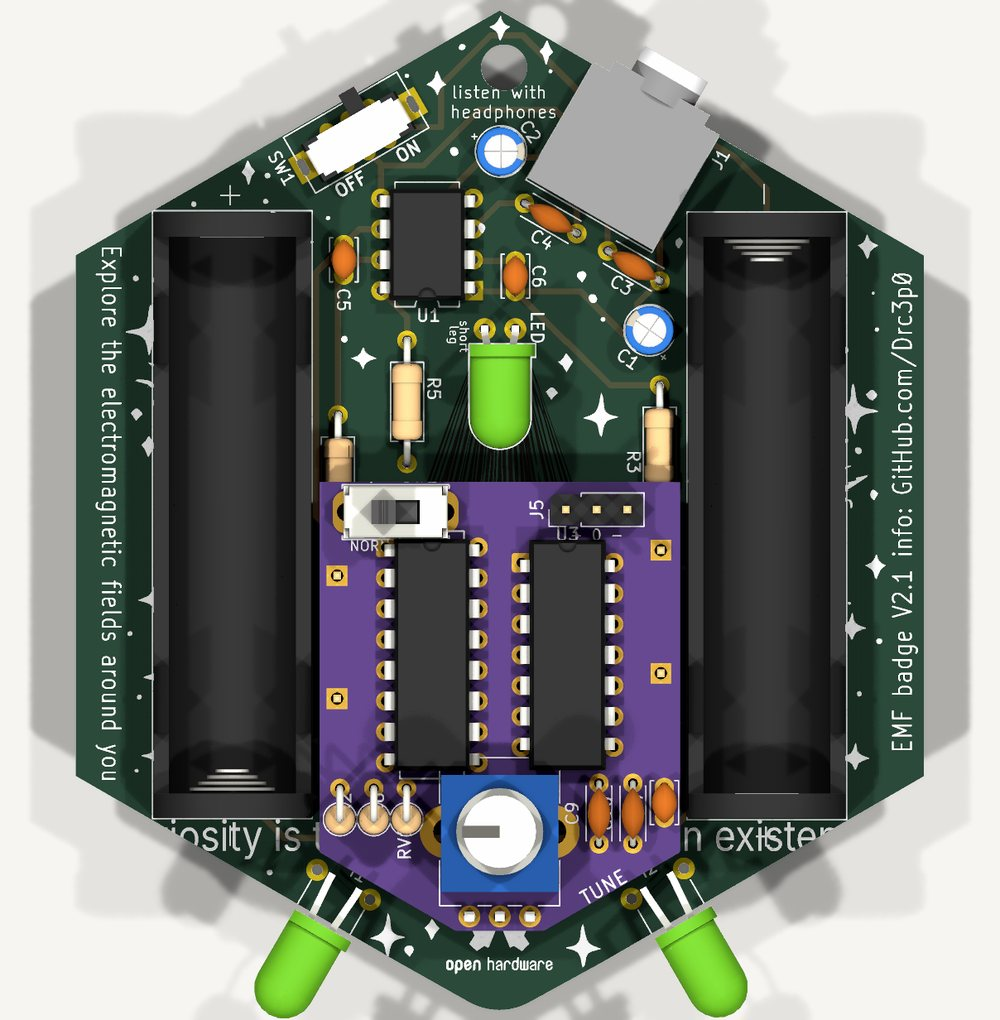
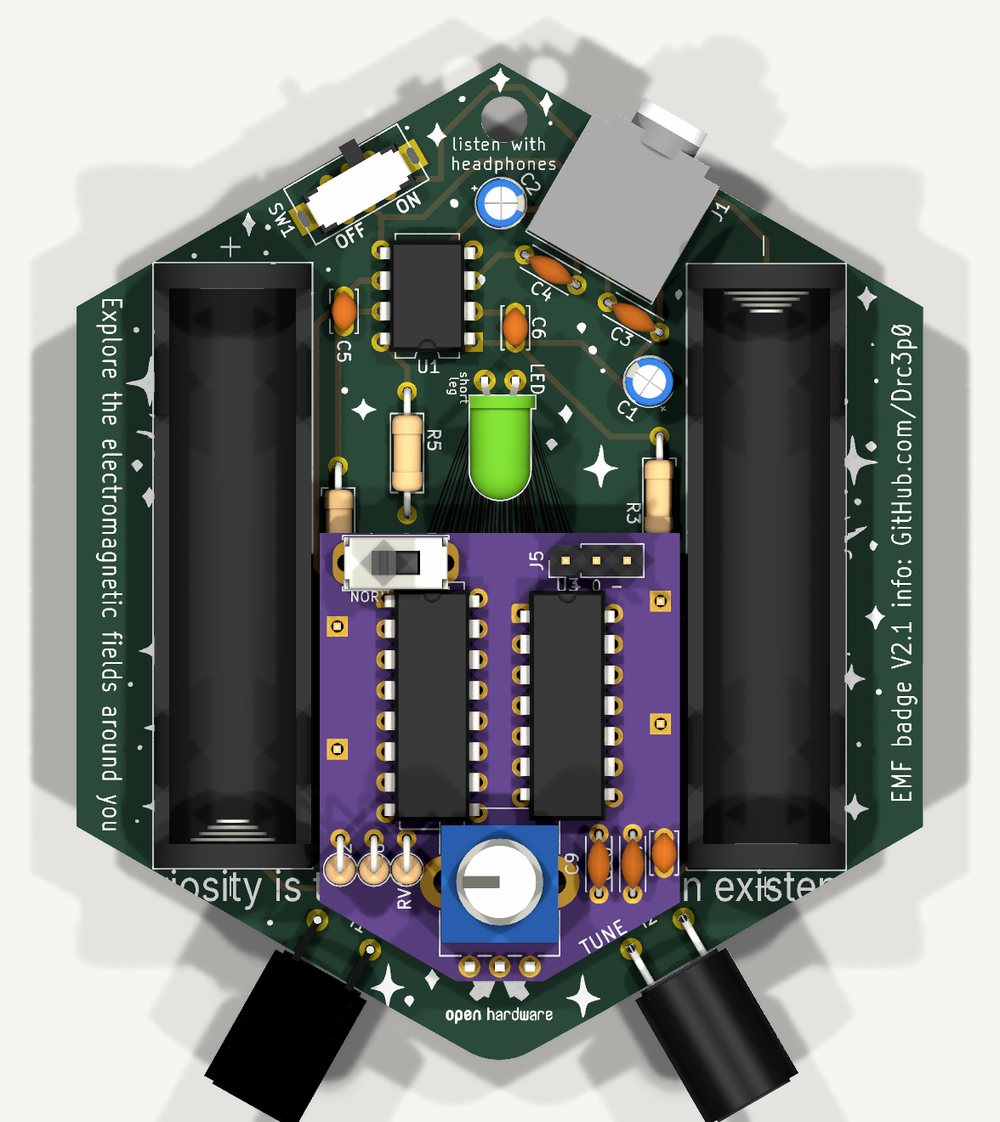
emf-badge: comb and trimmer by default, proper coil models, the 100 ohm question
- kicad.html: the generator now starts with comb mode included and a
  trimmer for the knob. The twenty checked files are unchanged.
- The add-on render draws the pickup coils as bent-over Bourns RLB1014
  inductors (size from the datasheet), not the board file's LED stand-ins.
- index.html: what happens if the 100 ohm input resistors are left out,
  with badge_noresistor.py; a bypass needs a two-pole switch.
- Correction: the output offsets quoted for the top of the dial came from
  runs with a series capacitor the build does not have. Without it the
  offset is about 0.24 V at 1 MHz, not 0.1 V. badge_chop.py now runs those
  cases as built.

Claude-Session: https://claude.ai/code/session_01RzniSLmuMjzMwxu6CQqP64

diff --git a/emf-badge/index.html b/emf-badge/index.html
@@ -362,7 +362,7 @@ footer{margin-top:3.5rem;padding-top:1rem;border-top:1px solid var(--line);font-
 <p><strong>The top of that range is ragged, and that is the bargain.</strong> An earlier draft used 10 kΩ and stopped at 255 kHz. The smaller resistor costs nothing and lets the knob reach on toward 1 MHz, where three things stop being tidy.</p>
 <ul>
   <li><strong>Tuning.</strong> Frequency goes as one over resistance, so the top is crowded. With a linear pot everything above 100 kHz sits in the last quarter of the turn and everything above 350 kHz in the last twentieth. Up there the knob is for sweeping through sources, not for parking on one. A log pot wired backwards spreads the octaves far more evenly; the dial above lets you feel both.</li>
-  <li><strong>The parts.</strong> In simulation the tone holds, 57 to 59 mV all the way to 1 MHz. What grows is an offset at the amplifier's output, about 0.1 V at 1 MHz on fresh cells and 0.17 V on tired ones. The real chip's charge injection is not modelled and will add to it. On tired cells the oscillator itself stops near 0.8 MHz.</li>
+  <li><strong>The parts.</strong> In simulation the tone holds, 57 to 59 mV all the way to 1 MHz. What grows is an offset at the amplifier's output: 60 mV at 40 kHz, 0.16 V at 600 kHz and about 0.24 V at 1 MHz, on fresh cells and tired ones alike. The real chip's charge injection is not modelled and will add to it. On tired cells the oscillator itself stops near 0.8 MHz.</li>
   <li><strong>The coil.</strong> Its ferrite core was never meant for this, and its losses up there are unknown.</li>
 </ul>
 <p>If the top end turns out to be too fiddly, a larger fixed resistor pulls it back in: 4.7 kΩ stops near 500 kHz and 10 kΩ near 250 kHz.</p>
@@ -714,7 +714,8 @@ footer{margin-top:3.5rem;padding-top:1rem;border-top:1px solid var(--line);font-
   <li><strong>No series capacitor.</strong> An earlier draft of this circuit put 10 µF between the switch and R2 to block the op-amp's offset. On the badge's rails it is not needed: without it the tone is unchanged and a 1 mV offset leaves 60 mV of DC at the output, less than the stock badge has.</li>
   <li><strong>One range.</strong> One capacitor and one pot cover 26 kHz to about 1 MHz. A range switch and a second capacitor would make the top easier to tune, for the price of the switch.</li>
   <li><strong>One ear.</strong> Tuning one ear and leaving the other normal saves the oscillator chip (build 2), and may be the nicer instrument. That is a choice to make by listening.</li>
-  <li><strong>No bypass pole.</strong> Holding the switch at pass for normal listening costs 2.5 to 6.5 dB of bass and saves a pole on the mode switch.</li>
+  <li><strong>No bypass switch.</strong> Holding the chip at pass for normal listening costs 2.5 to 6.5 dB of bass and saves a two-pole switch.</li>
+  <li><strong>No 100 Ω resistors.</strong> With the chip in the coil's path, its own resistance can do the job of R1 and R2. In simulation the tuned note, the comb and the hiss do not change: the note goes from 59 to 61 mV. Normal listening through the chip then sits within 0.5 dB of the stock badge when the chip is 120 Ω, in place of 2.5 dB down. The level now follows the chip, though: +0.7 dB at 70 Ω, −2 dB at 200 Ω and −5 dB at 400 Ω, which is where tired cells may put it. The offset at the amplifier's output also grows, most at the top of the dial: 0.34 V in place of 0.20 V at 800 kHz. It does not go with a bypass switch, which would then join the coil straight to the op-amp and lift everything below 300 Hz by 2 to 3 dB. (<a href="badge_noresistor.py">badge_noresistor.py</a>)</li>
   <li><strong>A microcontroller instead of the oscillator.</strong> A part costing about ten cents (not priced here) could be the oscillator and add an automatic sweep. It is surface-mount, needs programming on the line, and is one more thing for the coils to hear. Left out.</li>
 </ul>
 
@@ -723,8 +724,8 @@ footer{margin-top:3.5rem;padding-top:1rem;border-top:1px solid var(--line);font-
   <thead><tr><th>Question</th><th>Simulated answer, recommended build on ±1.5 V</th></tr></thead>
   <tbody>
     <tr><th scope="row">How big is the tone?</th><td>A 40 kHz field chopped at 39 kHz gives a 1 kHz tone of 59 mV at the amplifier output. Today the same field leaves 73 mV of 40 kHz there, which nobody hears.</td></tr>
-    <tr><th scope="row">Does it fall off higher up?</th><td>Not in the model: 59 mV at 200 kHz, 59 mV at 600 kHz and 57 mV at 1 MHz. An offset builds at the amplifier output instead, 24 mV at 400 kHz and 96 mV at 1 MHz.</td></tr>
-    <tr><th scope="row">And on tired cells?</th><td>59 mV at 40 kHz and at 200 kHz on ±1.0 V, with the switch modelled as 400 Ω and 150 ns, and 58 mV at 1 MHz with a 0.17 V offset. The oscillator only reaches about 0.8 MHz there.</td></tr>
+    <tr><th scope="row">Does it fall off higher up?</th><td>Not in the model: 59 mV at 200 kHz, 59 mV at 600 kHz and 57 mV at 1 MHz. An offset builds at the amplifier output instead: 60 mV at 40 kHz, 0.16 V at 600 kHz and 0.24 V at 1 MHz.</td></tr>
+    <tr><th scope="row">And on tired cells?</th><td>59 mV at 40 kHz and at 200 kHz on ±1.0 V, with the switch modelled as 400 Ω and 150 ns, and 60 mV at 1 MHz with a 0.25 V offset. The oscillator only reaches about 0.8 MHz there.</td></tr>
     <tr><th scope="row">Is it hissier than the badge?</th><td>No. The op-amp's own noise at the output is 10 dB lower while tuning than on the stock badge. The tone is also 10 dB down, so a tuned-in source is about as clean as an audible one is today.</td></tr>
     <tr><th scope="row">Does the oscillator leak into the sound?</th><td>Some of it reaches the output, always at the oscillator frequency, so above hearing. It swings ±0.15 V of the amplifier's ±1.2 V.</td></tr>
     <tr><th scope="row">What happens to ordinary sound while tuning?</th><td>It passes at half level, mixed with whatever is in the window.</td></tr>
@@ -744,10 +745,11 @@ footer{margin-top:3.5rem;padding-top:1rem;border-top:1px solid var(--line);font-
     <tr><th scope="row"><a href="badge_pots.py">badge_pots.py</a></th><td>The 74HC14 oscillator with pots from 10 kΩ to 100 kΩ.</td></tr>
     <tr><th scope="row"><a href="badge_filter.py">badge_filter.py</a></th><td>The tone filters and the reversing chopper: note, hum, ripple and hiss.</td></tr>
     <tr><th scope="row"><a href="badge_passband.py">badge_passband.py</a></th><td>What the switch and a series capacitor do to ordinary sound in normal listening.</td></tr>
+    <tr><th scope="row"><a href="badge_noresistor.py">badge_noresistor.py</a></th><td>The same circuit with the 100 Ω input resistor left out: ordinary sound, the tuned note, the comb, the offset and the hiss.</td></tr>
     <tr><th scope="row"><a href="chopper-falstad.txt">chopper-falstad.txt</a>, <a href="comb-falstad.txt">comb-falstad.txt</a></th><td>The two Falstad circuits shown above, as text to import into the simulator.</td></tr>
   </tbody>
 </table></div>
-<p class="small"><a href="emf-badge-sims.zip">All nine files in one zip.</a> Written against ngspice 42. The hiss figures move by a decibel or two from run to run, because the noise source is random.</p>
+<p class="small"><a href="emf-badge-sims.zip">All ten files in one zip.</a> Written against ngspice 42. The hiss figures move by a decibel or two from run to run, because the noise source is random.</p>
 
 <h2>What to check on the bench first</h2>
 <ol>
@@ -764,7 +766,7 @@ footer{margin-top:3.5rem;padding-top:1rem;border-top:1px solid var(--line);font-
 <figure class="lab">
   <div class="lab-title"><b>A proposed add-on</b><span>A 3D rendering, not a photograph</span></div>
   <a href="kicad.html#addon"><img src="addon-3d.jpg" width="1200" height="982" alt="The back of the badge with a small purple board standing on pins between the two battery holders, carrying two chips, a pot and a slide switch. Its lower edges run parallel to the badge's angled bottom edges, just above the two coils." loading="lazy" style="display:block;width:100%;max-width:38rem;height:auto;margin:0 auto;border-radius:4px;background:#f6f5f1"></a>
-  <figcaption>The add-on, in purple, sits between the battery holders. Its lower edges follow the badge's angled outline and stop just above the coils. It still needs three wires for power, and nothing on it is routed yet. Rendered from the badge's own board file with R1 and R2 removed; badge board and artwork are EMF Explorer Badge V2.1, CC BY-NC-SA 4.0. Measurements, a second view and the board file are on <a href="kicad.html#addon">the KiCad page</a>.</figcaption>
+  <figcaption>The add-on, in purple, sits between the battery holders. Its lower edges follow the badge's angled outline and stop just above the coils. It still needs three wires for power, and nothing on it is routed yet. Rendered from the badge's own board file with R1 and R2 removed, and with the coils drawn as the Bourns RLB1014 inductors the published parts list names. Badge board and artwork are EMF Explorer Badge V2.1, CC BY-NC-SA 4.0. Measurements, a second view and the board file are on <a href="kicad.html#addon">the KiCad page</a>.</figcaption>
 </figure>
 
 <h2>More detail</h2>

diff --git a/emf-badge/kicad.html b/emf-badge/kicad.html
@@ -213,10 +213,10 @@ td code,th code,li code,p code{overflow-wrap:anywhere}
     <div class="seg" role="group" aria-label="Normal listening" data-k="bypass"><button data-v="0" aria-pressed="true">Through the chip</button><button data-v="1" aria-pressed="false">True bypass</button></div>
     <p id="d-bypass"></p></div>
   <div class="opt"><span>Comb mode</span>
-    <div class="seg" role="group" aria-label="Comb mode" data-k="comb"><button data-v="0" aria-pressed="true">Leave out</button><button data-v="1" aria-pressed="false">Include</button></div>
+    <div class="seg" role="group" aria-label="Comb mode" data-k="comb"><button data-v="1" aria-pressed="true">Include</button><button data-v="0" aria-pressed="false">Leave out</button></div>
     <p id="d-comb"></p></div>
   <div class="opt"><span>Knob</span>
-    <div class="seg" role="group" aria-label="Knob" data-k="pot"><button data-v="ptv09" aria-pressed="true">9 mm shaft pot</button><button data-v="t3386" aria-pressed="false">Trimmer</button></div>
+    <div class="seg" role="group" aria-label="Knob" data-k="pot"><button data-v="t3386" aria-pressed="true">Trimmer</button><button data-v="ptv09" aria-pressed="false">9 mm shaft pot</button></div>
     <p id="d-pot"></p></div>
   <div class="opt"><span>On the sheet</span>
     <div class="seg" role="group" aria-label="On the sheet" data-k="badge"><button data-v="0" aria-pressed="true">Additions only</button><button data-v="1" aria-pressed="false">With the badge</button></div>
@@ -283,7 +283,7 @@ td code,th code,li code,p code{overflow-wrap:anywhere}
     <img src="addon-3d.jpg" width="1200" height="982" alt="The back of the badge with a small purple board standing on pins between the two battery holders, carrying two chips, a pot and a slide switch. Its lower edges run parallel to the badge's angled bottom edges, just above the two coils." loading="lazy">
     <img src="addon-back.jpg" width="1000" height="1020" alt="The same, seen straight on from the back of the badge." loading="lazy">
   </div>
-  <figcaption>The add-on is purple. It stands on four pins in the holes that R1 and R2 leave free, in the channel between the battery holders, and its lower edges follow the badge's angled outline, stopping just above the coils. The badge is rendered from its own board file with R1 and R2 removed; its coils show as the LED-shaped stand-ins that file uses. The add-on's pot is a plain block, because KiCad has no model for it. Badge board and artwork: EMF Explorer Badge V2.1, CC BY-NC-SA 4.0.</figcaption>
+  <figcaption>The add-on is purple. It stands on four pins in the holes that R1 and R2 leave free, in the channel between the battery holders, and its lower edges follow the badge's angled outline, stopping just above the coils. The badge is rendered from its own board file with R1 and R2 removed. Its coils are drawn as the Bourns RLB1014 inductors the published parts list names, 8.7 mm across and 12 mm long, bent over so they lie just past the board edge: the size is from the datasheet, the pose is read from the footprint and not from a built badge. The add-on's pot is a plain block, because KiCad has no model for it. Badge board and artwork: EMF Explorer Badge V2.1, CC BY-NC-SA 4.0.</figcaption>
 </figure>
 <p>The measurements come from the badge's published board file.</p>
 <ul>
@@ -300,6 +300,7 @@ td code,th code,li code,p code{overflow-wrap:anywhere}
   <li><a href="https://github.com/drc3p0/emf-explorer-badge">EMF Explorer Badge design files</a>, CC BY-NC-SA 4.0, for the schematic, the board outline, and the positions of the resistors, coils and battery holders</li>
   <li>KiCad 9.0.9 symbol, footprint and 3D model libraries, for the symbols, the pad numbers and positions, and the models</li>
   <li><a href="https://www.bourns.com/data/global/pdfs/PTV09.pdf">Bourns PTV09 datasheet</a>, for the pot's ordering codes and board pattern</li>
+  <li><a href="https://makezine.com/projects/electromagnetic-symphony-explore-the-emf-universe">Electromagnetic Symphony</a>, Make, for the parts list that names the coils, and the <a href="https://www.mouser.com/datasheet/2/54/bourns_rlb-1159243.pdf">Bourns RLB series datasheet</a> for their size</li>
   <li><a href="https://www.lcsc.com/datasheet/C221829.pdf">C&amp;K OS series datasheet</a>, LCSC's copy, for the one-pole switch's connections</li>
   <li>LCSC listings for the <a href="https://www.lcsc.com/product-detail/C221829.html">OS102011MS2QN1</a> and <a href="https://www.lcsc.com/product-detail/C221663.html">JS202011CQN</a> switches, the <a href="https://www.lcsc.com/product-detail/C507177.html">74HC4053</a>, the <a href="https://www.lcsc.com/product-detail/C507186.html">74HC14</a>, the <a href="https://www.lcsc.com/product-detail/C5341721.html">PTV09A pot</a>, the <a href="https://www.lcsc.com/product-detail/C48642122.html">3386P trimmer</a>, and the <a href="https://www.lcsc.com/product-detail/C58595.html">UNI-ROYAL MFR0W4F resistors</a></li>
 </ul></div>
@@ -434,7 +435,8 @@ root.EMFGEN = { Sheet: Sheet, FP: FP, POTS: POTS, PART: PART, PASSIVE: PASSIVE, 
 'use strict';
 var G = root.EMFGEN, FP = G.FP, tw = G.tw;
 function defaults(o) {
-  o = o || {}; var r = { build: o.build === 'tr' ? 'tr' : 'rec', bypass: !!o.bypass, comb: !!o.comb, pot: o.pot === 't3386' ? 't3386' : 'ptv09', badge: !!o.badge };
+  o = o || {};   // defaults: the switch-chip build with comb mode and a trimmer for the knob
+  var r = { build: o.build === 'tr' ? 'tr' : 'rec', bypass: !!o.bypass, comb: o.comb === undefined ? true : !!o.comb, pot: o.pot === 'ptv09' ? 'ptv09' : 't3386', badge: !!o.badge };
   if (r.build === 'tr') { r.bypass = false; r.comb = false; } return r;
 }
 function name(o) { o = defaults(o); return 'emf-badge-chopper-' + (o.build === 'tr' ? 'transistor' : 'chip' + (o.bypass ? '-bypass' : '') + (o.comb ? '-comb' : '')) + (o.pot === 't3386' ? '-trimmer' : '') + (o.badge ? '-with-badge' : ''); }
@@ -589,7 +591,7 @@ G.generate = generate; G.fileName = name; G.defaults = defaults;
 (function () {
   'use strict';
   var LIB = JSON.parse(document.getElementById('lib').textContent), G = window.EMFGEN;
-  var st = { build: 'rec', bypass: false, comb: false, pot: 'ptv09', badge: false };
+  var st = { build: 'rec', bypass: false, comb: true, pot: 't3386', badge: false };
   var $ = function (id) { return document.getElementById(id); };
   var TXT = {
     build: { rec: 'One 74HC4053 and one 74HC14. The recommended build.', tr: 'Two 2N3904 and two BSS138. Cheapest, hissier, and the FETs are surface-mount. For comparing board area.' },

diff --git a/emf-badge/badge_noresistor.py b/emf-badge/badge_noresistor.py
@@ -1,0 +1,67 @@
+# Part of the simulation scripts behind https://slopswap.org/emf-badge/
+# Needs Python 3 with numpy, and ngspice on the PATH (written against ngspice 42).
+# Keep the badge_*.py files in one folder; netlists and results go into an ng/ folder beside them.
+# Run:  python3 badge_noresistor.py [pass|chop|hiss]   (no argument runs all three; several minutes)
+"""What changes if the badge's 100 ohm input resistor is left out, so that the 74HC4053's own resistance is all that
+stands between the coil and the amplifier.  pass: ordinary sound in normal listening.  chop: the tuned note, the comb and the
+output offset.  hiss: the amplifier's noise."""
+import sys, os, subprocess, numpy as np
+import badge_core, badge_chop, badge_hiss
+from badge_core import spdt, direct, lo_src, tone
+orig = badge_core.front
+def with_rin(rin):
+    f = lambda *a, **k: orig(*a, **k).replace('RIN n6 n5 100', 'RIN n6 n5 %s' % rin)
+    badge_chop.front = f; badge_hiss.front = f
+W = badge_core.W
+def ac(name, rin, ron):
+    txt = f"""* {name}
+VEMF N1 0 AC 1
+L1 N2 N1 100m
+RDCR A N2 250
+CPAR A 0 30p
+RSW A B {max(ron, 1e-3):g}
+RIN N6 B {max(rin, 1e-3):g}
+XU1 0 N6 VP VN OUT NJM2115
+RF OUT N6 100k
+CF OUT N6 100p
+VPOS VP 0 1.5
+VNEG 0 VN 1.5
+.subckt NJM2115 inp inn vp vn out
+G1 0 x inp inn 1m
+R1 x 0 10Meg
+C1 x 0 13.26p
+E1 o 0 x 0 1
+R2 o out 50
+.ends NJM2115
+.control
+ac dec 40 20 20k
+wrdata {os.path.join(W, name)}.dat vm(out)
+.endc
+.end
+"""
+    open(os.path.join(W, name + '.cir'), 'w').write(txt); subprocess.run(['ngspice', '-b', os.path.join(W, name + '.cir')], capture_output=True, text=True)
+    d = np.loadtxt(os.path.join(W, name + '.dat')); return d[:, 0], d[:, 1]
+which = sys.argv[1] if len(sys.argv) > 1 else 'all'
+if which in ('all', 'pass'):
+    f, stock = ac('nr_stock', 100, 0); pts = [60, 120, 180, 300, 500, 1000, 2000, 5000, 10000]
+    print('NORMAL through the chip, dB against the stock badge, at Hz' + ''.join('%7d' % p for p in pts))
+    for lab, rin, ron in (('100 ohm kept, chip 120', 100, 120), ('100 ohm kept, chip 400', 100, 400), ('no resistor, chip 70', 0, 70), ('no resistor, chip 120', 0, 120), ('no resistor, chip 200', 0, 200), ('no resistor, chip 400', 0, 400), ('no resistor, direct wire (bypass)', 0, 0)):
+        _, v = ac('nr_' + lab.replace(' ', '').replace(',', '_').replace('(', '').replace(')', ''), rin, ron); r = 20*np.log10(v/stock)
+        print('%-58s' % lab + ''.join('%7.1f' % np.interp(np.log(p), np.log(f), r) for p in pts))
+if which in ('all', 'chop'):
+    for rin in ('100', '1m'):
+        with_rin(rin); tag = 'R100' if rin == '100' else 'R0'
+        print('--- input resistor', rin, '---')
+        badge_chop.report('nr_%s_40k' % tag, spdt(), 40e3, 39e3, c1=None)
+        badge_chop.report('nr_%s_40k_2V' % tag, spdt(400, 150e-9), 40e3, 39e3, c1=None, vs=1.0)
+        badge_chop.report('nr_%s_200k' % tag, spdt(), 200e3, 199e3, c1=None, step=0.1e-6, tend=30e-3)
+        badge_chop.report('nr_%s_800k' % tag, spdt(), 800e3, 799e3, c1=None, step=0.025e-6, tend=16e-3, win=6e-3)
+        badge_chop.report('nr_%s_comb' % tag, spdt(), 151e3, 30e3, n=5, duty=0.09, c1=None)
+if which in ('all', 'hiss'):
+    ref = None
+    for lab, rin, name, mid, lo in (('stock badge', '100', 'nrh_stock', direct(), None), ('chip held at pass, 100 ohm kept', '100', 'nrh_pass_r', spdt(), None), ('chip held at pass, no resistor', '1m', 'nrh_pass_0', spdt(), None),
+                                     ('chopping at 39 kHz, 100 ohm kept', '100', 'nrh_chop_r', spdt(), lo_src(39e3)), ('chopping at 39 kHz, no resistor', '1m', 'nrh_chop_0', spdt(), lo_src(39e3)),
+                                     ('comb, 100 ohm kept', '100', 'nrh_comb_r', spdt(), lo_src(30e3, 0.09)), ('comb, no resistor', '1m', 'nrh_comb_0', spdt(), lo_src(30e3, 0.09))):
+        with_rin(rin); r, quiet, pk = badge_hiss.case(name, mid, lo, None)
+        if ref is None: ref = r
+        print('%-36s noise %7.3f mV rms  %+6.1f dB re stock   (no-noise run: %.3f mV in band, peak %.2f V)' % (lab, r*1e3, 20*np.log10(r/ref), quiet*1e3, pk), flush=True)

diff --git a/emf-badge/badge_chop.py b/emf-badge/badge_chop.py
@@ -29,11 +29,11 @@ if __name__ == '__main__':
         print('--- no C1 (offset 1 mV, then 6 mV worst case) ---')
         report('spdt_40k_noC1', spdt(), 40e3, 39e3, c1=None)
     if which in ('all', 'top'):
-        print('--- the stretched top of the dial: same section at 0.6, 0.8 and 1 MHz, fresh cells and then +/-1.0 V ---')
+        print('--- the stretched top of the dial: same section at 0.6, 0.8 and 1 MHz, fresh cells and then +/-1.0 V, with no series capacitor (as built) ---')
         for f in (600e3, 800e3, 1000e3):
             st = 0.025e-6 if f < 900e3 else 0.02e-6
-            report('top_%dk' % (f/1e3), spdt(), f, f - 1e3, step=st, tend=16e-3, win=6e-3)
-            report('top_%dk_2V' % (f/1e3), spdt(400, 150e-9), f, f - 1e3, vs=1.0, step=st, tend=16e-3, win=6e-3)
+            report('top_%dk' % (f/1e3), spdt(), f, f - 1e3, c1=None, step=st, tend=16e-3, win=6e-3)
+            report('top_%dk_2V' % (f/1e3), spdt(400, 150e-9), f, f - 1e3, c1=None, vs=1.0, step=st, tend=16e-3, win=6e-3)
     if which in ('all', 'shunt'):
         print('--- shunt-only, one FET and a capacitor ---')
         report('fet_bss138_40k', shunt_fet('BSS138'), 40e3, 39e3, c1=None)
